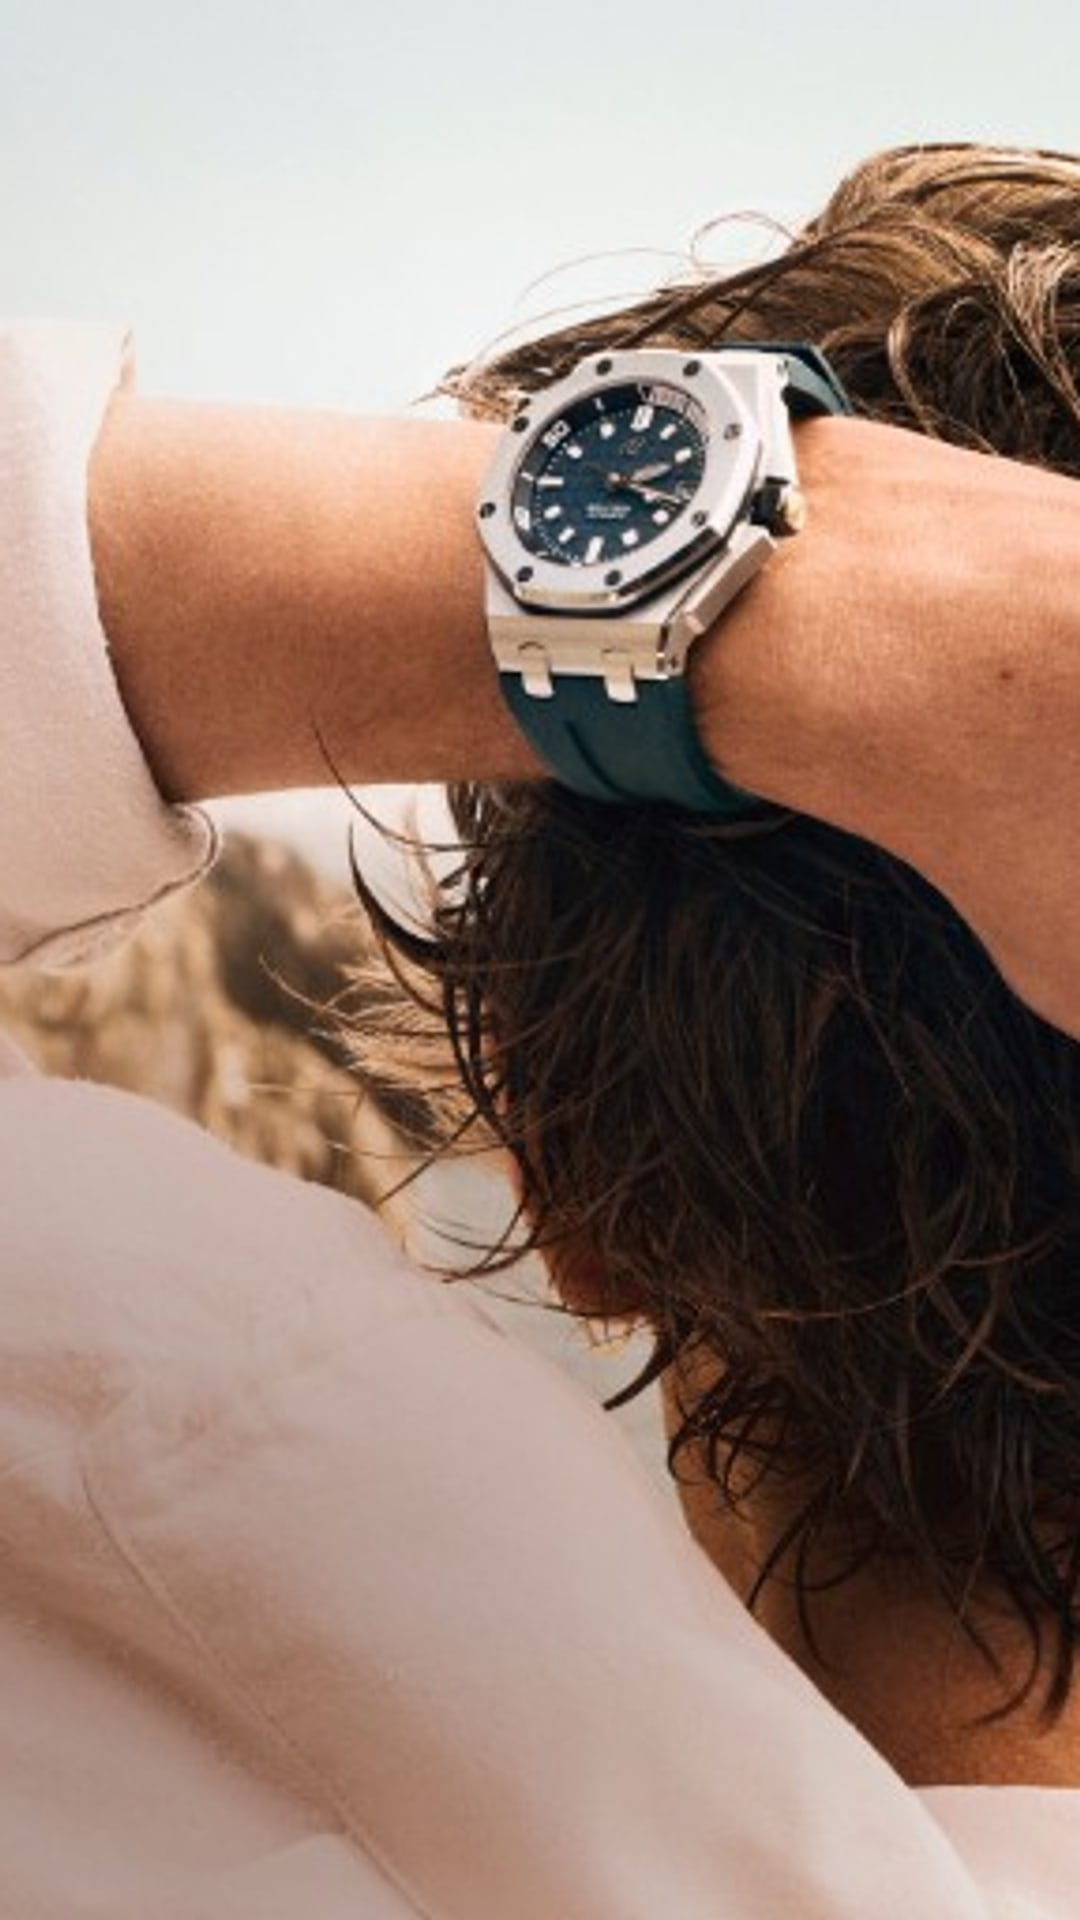
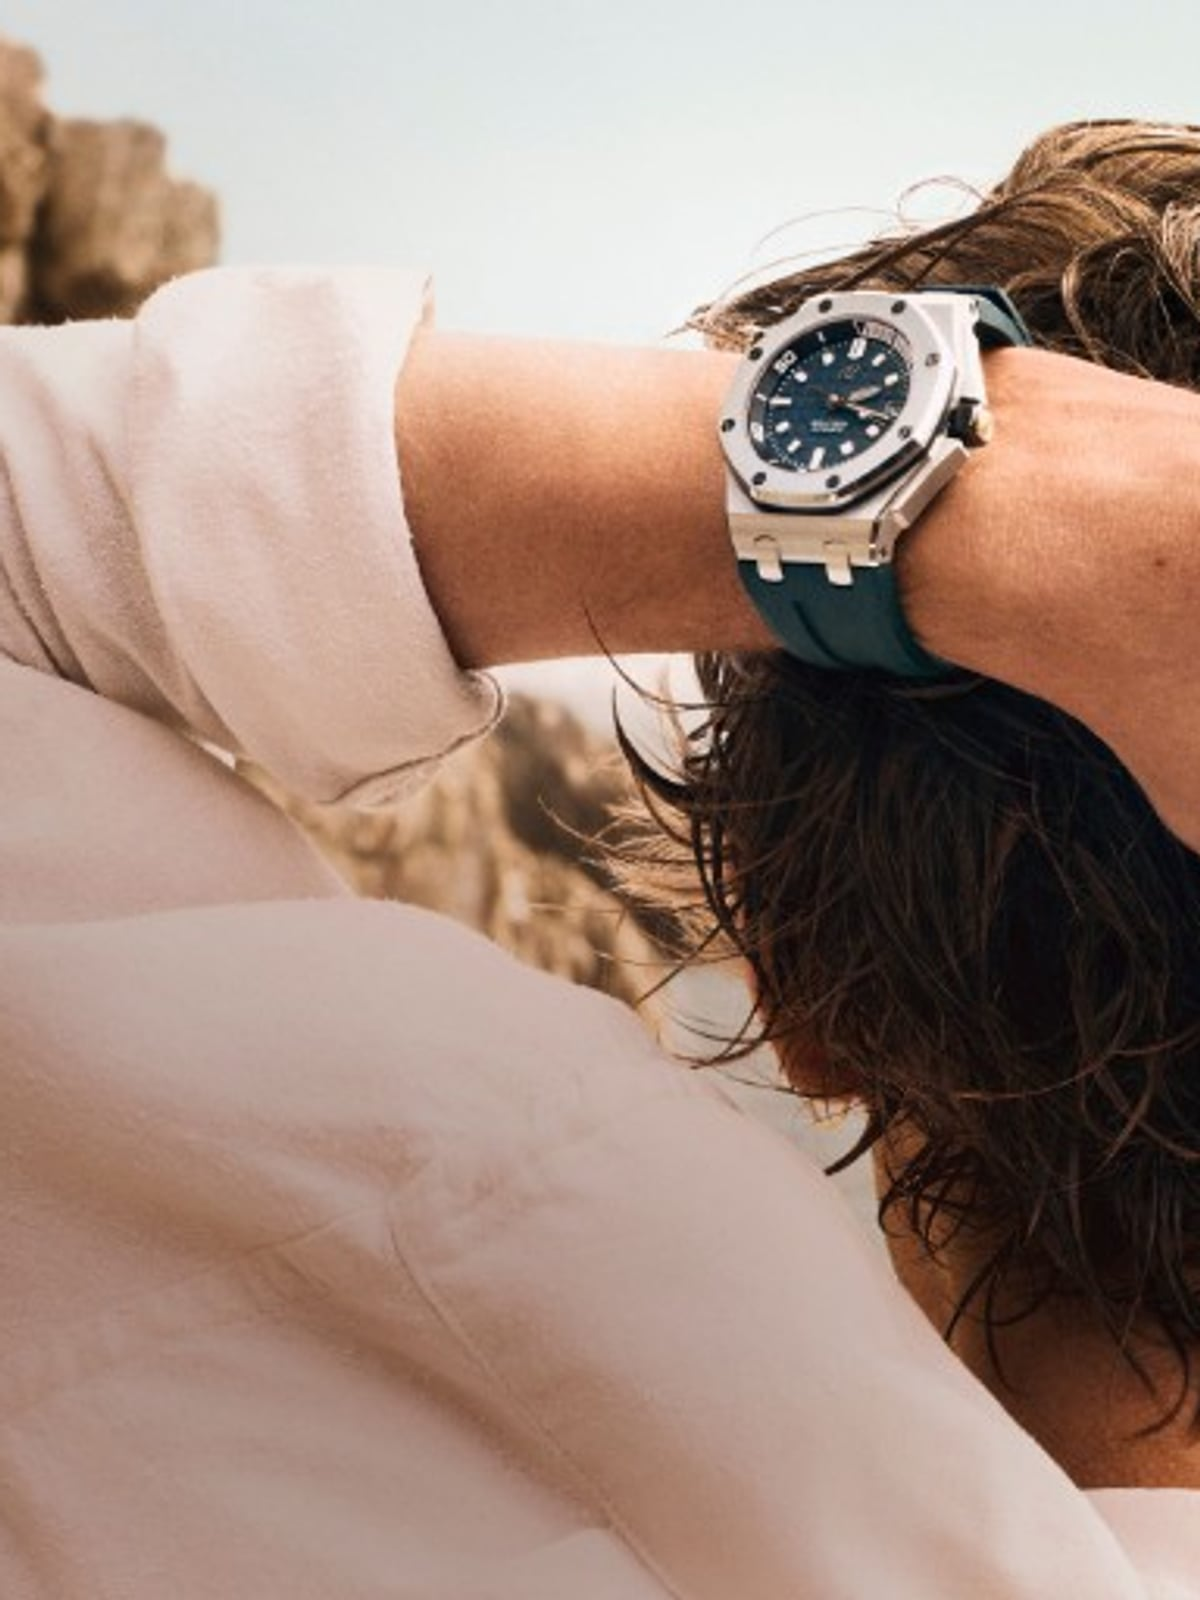
Fix cinematic hero layout and cropping on mobile.
Replace fragile picture/fill art-direction, lock a stable viewport height, and retune the mobile still so the watch and copy stay readable.

diff --git a/src/app/globals.css b/src/app/globals.css
@@ -826,7 +826,9 @@ a {
 /* ── Homepage: cinematic hero ── */
 .cinematic-hero {
   position: relative;
-  min-height: min(92vh, 860px);
+  isolation: isolate;
+  width: 100%;
+  min-height: min(88vh, 820px);
   display: flex;
   align-items: flex-end;
   overflow: hidden;
@@ -837,20 +839,27 @@ a {
 .cinematic-hero__media {
   position: absolute;
   inset: 0;
+  z-index: 0;
 }
 
-.cinematic-hero__media img,
+.cinematic-hero__still {
+  object-fit: cover;
+  object-position: center center;
+}
+
+.cinematic-hero__still--mobile {
+  display: none;
+}
+
+.cinematic-hero__still--desktop {
+  display: block;
+}
+
 .cinematic-hero__media video {
   width: 100%;
   height: 100%;
   object-fit: cover;
   object-position: center;
-}
-
-@media (max-width: 767px) {
-  .cinematic-hero__media img.cinematic-hero__still {
-    object-position: 62% 28%;
-  }
 }
 
 .cinematic-hero__video {
@@ -863,6 +872,7 @@ a {
   position: absolute;
   inset: 0;
   z-index: 2;
+  pointer-events: none;
   background:
     linear-gradient(
       to top,
@@ -904,6 +914,65 @@ a {
 
 .cinematic-hero__cta {
   margin-top: 32px;
+}
+
+@media (max-width: 767px) {
+  .cinematic-hero {
+    /* Leave room for announcement + header + bottom nav */
+    min-height: min(68svh, 560px);
+    max-height: min(72svh, 620px);
+    height: min(68svh, 560px);
+  }
+
+  .cinematic-hero__still--desktop {
+    display: none;
+  }
+
+  .cinematic-hero__still--mobile {
+    display: block;
+    object-position: center 22%;
+  }
+
+  .cinematic-hero__overlay {
+    background:
+      linear-gradient(
+        to top,
+        rgba(11, 11, 12, 0.88) 0%,
+        rgba(11, 11, 12, 0.45) 38%,
+        rgba(11, 11, 12, 0.2) 100%
+      );
+  }
+
+  .cinematic-hero__content {
+    padding: 28px 16px calc(20px + env(safe-area-inset-bottom, 0px));
+  }
+
+  .cinematic-hero__brand {
+    font-size: 15px;
+    margin-bottom: 10px;
+  }
+
+  .cinematic-hero__line {
+    max-width: min(12ch, 100%);
+    font-size: clamp(28px, 8.2vw, 40px);
+    line-height: 1.08;
+  }
+
+  .cinematic-hero__support {
+    margin-top: 12px;
+    max-width: 34ch;
+    font-size: 13px;
+    line-height: 1.45;
+  }
+
+  .cinematic-hero__cta {
+    margin-top: 18px;
+  }
+
+  .cinematic-hero__cta .btn-outline-on-image {
+    width: auto;
+    max-width: 100%;
+  }
 }
 
 @media (prefers-reduced-motion: reduce) {
@@ -1172,37 +1241,6 @@ a {
     right: 10px;
     bottom: 10px;
     font-size: 11px;
-  }
-
-  .cinematic-hero {
-    min-height: min(78svh, 640px);
-  }
-
-  .cinematic-hero__content {
-    padding: 40px 16px calc(28px + env(safe-area-inset-bottom, 0px));
-  }
-
-  .cinematic-hero__brand {
-    font-size: 16px;
-    margin-bottom: 12px;
-  }
-
-  .cinematic-hero__line {
-    max-width: 11ch;
-  }
-
-  .cinematic-hero__support {
-    margin-top: 14px;
-    max-width: 32ch;
-    font-size: 13px;
-  }
-
-  .cinematic-hero__cta {
-    margin-top: 22px;
-  }
-
-  .cinematic-hero__cta .btn-outline-on-image {
-    width: auto;
   }
 
   .featured-rail {

diff --git a/src/components/home/CinematicHero.tsx b/src/components/home/CinematicHero.tsx
@@ -1,6 +1,6 @@
 "use client";
 
-import { getImageProps } from "next/image";
+import Image from "next/image";
 import Link from "next/link";
 import { useState } from "react";
 
@@ -30,37 +30,25 @@ export function CinematicHero({
   const showVideo = Boolean(videoSrc) && !videoFailed;
   const mobileSrc = stillSrcMobile ?? stillSrc;
 
-  const common = {
-    alt: "",
-    fill: true as const,
-    priority: true,
-    sizes: "100vw",
-    className: "object-cover cinematic-hero__still",
-  };
-
-  const {
-    props: { srcSet: desktopSrcSet, ...desktopRest },
-  } = getImageProps({
-    ...common,
-    src: stillSrc,
-  });
-
-  const {
-    props: { srcSet: mobileSrcSet },
-  } = getImageProps({
-    ...common,
-    src: mobileSrc,
-  });
-
   return (
     <section className="cinematic-hero" aria-label="Campaign">
       <div className="cinematic-hero__media">
-        <picture>
-          <source media="(max-width: 767px)" srcSet={mobileSrcSet} sizes="100vw" />
-          <source media="(min-width: 768px)" srcSet={desktopSrcSet} sizes="100vw" />
-          {/* Decorative campaign still */}
-          <img {...desktopRest} alt="" />
-        </picture>
+        <Image
+          src={stillSrc}
+          alt=""
+          fill
+          priority
+          sizes="(max-width: 767px) 0px, 100vw"
+          className="cinematic-hero__still cinematic-hero__still--desktop"
+        />
+        <Image
+          src={mobileSrc}
+          alt=""
+          fill
+          priority
+          sizes="(max-width: 767px) 100vw, 0px"
+          className="cinematic-hero__still cinematic-hero__still--mobile"
+        />
         {showVideo && (
           <video
             className="cinematic-hero__video"
